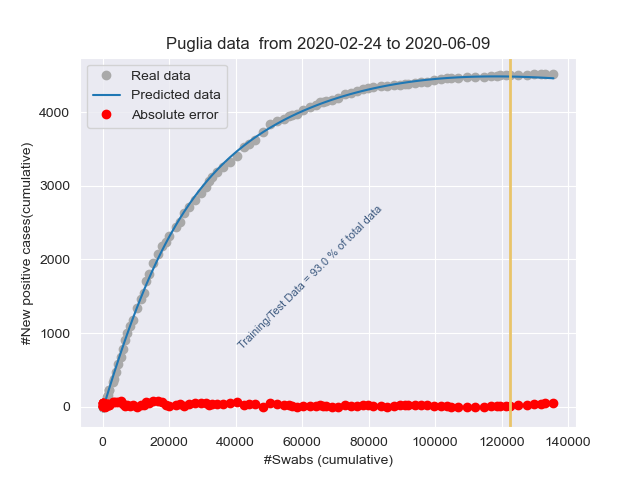
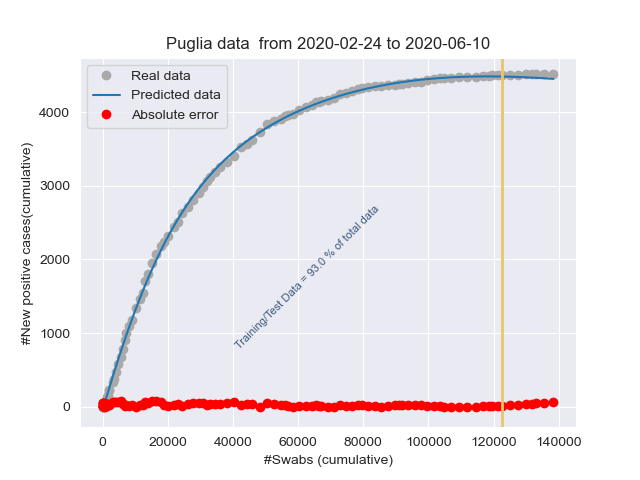
Add files via upload

diff --git a/stat_Friuli Venezia Giulia.html b/stat_Friuli Venezia Giulia.html
@@ -1,1 +1,1 @@
-<!DOCTYPE html><html lang="it"><head><title>Results</title><meta charset="utf-8"><meta name="viewport" content="width=device-width, initial-scale=1"><link rel="stylesheet" href="bootstrap.min.css"><script src="https://ajax.googleapis.com/ajax/libs/jquery/3.4.1/jquery.min.js"></script><script src="https://maxcdn.bootstrapcdn.com/bootstrap/3.4.1/js/bootstrap.min.js"></script></head><body><h3>Day: 2020-06-09</h3><p class="lead my-3">New positive cases: <b>0</b></p><p class="lead my-3">Variation of positive cases: <b>-100.0%</b></p><p class="lead my-3">Number of swabs: <b>859.0</b></p><p class="lead my-3">Variation of swabs: <b>0.58%</b></p><p class="lead my-3">Postive cases/Swabs: <b>0.0 %</b></p><p class="lead my-3">Number of people admitted to Intensive care: <b>2</b></p><p class="lead my-3">Number of recovered people: <b>16.0</b></p><p class="lead my-3">Number of dead people: <b>0.0</b></p><h3>Total</h3><p class="lead my-3">Population of  Friuli Venezia Giulia: <b>1215220</b> <a href="http://dati.istat.it/Index.aspx?QueryId=18548" target="_blank">ISTAT data</a></p><p class="lead my-3">Total number of positive cases from 2020-02-24 00:00:00 to 2020-06-09: <b> 3284</b></p><p class="lead my-3">Total number of swabs from 2020-02-24 00:00:00 to 2020-06-09: <b> 148889</b></p><p class="lead my-3">TotalSwabs/Population: <b> 12.25%</b></p></body></html>
+<!DOCTYPE html><html lang="it"><head><title>Results</title><meta charset="utf-8"><meta name="viewport" content="width=device-width, initial-scale=1"><link rel="stylesheet" href="bootstrap.min.css"><script src="https://ajax.googleapis.com/ajax/libs/jquery/3.4.1/jquery.min.js"></script><script src="https://maxcdn.bootstrapcdn.com/bootstrap/3.4.1/js/bootstrap.min.js"></script></head><body><h3>Day: 2020-06-10</h3><p class="lead my-3">New positive cases: <b>2</b></p><p class="lead my-3">Variation of positive cases: <b>inf%</b></p><p class="lead my-3">Number of swabs: <b>3977.0</b></p><p class="lead my-3">Variation of swabs: <b>2.67%</b></p><p class="lead my-3">Postive cases/Swabs: <b>0.05 %</b></p><p class="lead my-3">Number of people admitted to Intensive care: <b>1</b></p><p class="lead my-3">Number of recovered people: <b>16.0</b></p><p class="lead my-3">Number of dead people: <b>1.0</b></p><h3>Total</h3><p class="lead my-3">Population of  Friuli Venezia Giulia: <b>1215220</b> <a href="http://dati.istat.it/Index.aspx?QueryId=18548" target="_blank">ISTAT data</a></p><p class="lead my-3">Total number of positive cases from 2020-02-24 00:00:00 to 2020-06-10: <b> 3286</b></p><p class="lead my-3">Total number of swabs from 2020-02-24 00:00:00 to 2020-06-10: <b> 152866</b></p><p class="lead my-3">TotalSwabs/Population: <b> 12.58%</b></p></body></html>

diff --git a/stat_Emilia-Romagna.html b/stat_Emilia-Romagna.html
@@ -1,1 +1,1 @@
-<!DOCTYPE html><html lang="it"><head><title>Results</title><meta charset="utf-8"><meta name="viewport" content="width=device-width, initial-scale=1"><link rel="stylesheet" href="bootstrap.min.css"><script src="https://ajax.googleapis.com/ajax/libs/jquery/3.4.1/jquery.min.js"></script><script src="https://maxcdn.bootstrapcdn.com/bootstrap/3.4.1/js/bootstrap.min.js"></script></head><body><h3>Day: 2020-06-09</h3><p class="lead my-3">New positive cases: <b>18</b></p><p class="lead my-3">Variation of positive cases: <b>-10.0%</b></p><p class="lead my-3">Number of swabs: <b>6523.0</b></p><p class="lead my-3">Variation of swabs: <b>1.81%</b></p><p class="lead my-3">Postive cases/Swabs: <b>0.28 %</b></p><p class="lead my-3">Number of people admitted to Intensive care: <b>31</b></p><p class="lead my-3">Number of recovered people: <b>138.0</b></p><p class="lead my-3">Number of dead people: <b>6.0</b></p><h3>Total</h3><p class="lead my-3">Population of  Emilia-Romagna: <b>4459477</b> <a href="http://dati.istat.it/Index.aspx?QueryId=18548" target="_blank">ISTAT data</a></p><p class="lead my-3">Total number of positive cases from 2020-02-24 00:00:00 to 2020-06-09: <b> 27946</b></p><p class="lead my-3">Total number of swabs from 2020-02-24 00:00:00 to 2020-06-09: <b> 367485</b></p><p class="lead my-3">TotalSwabs/Population: <b> 8.24%</b></p></body></html>
+<!DOCTYPE html><html lang="it"><head><title>Results</title><meta charset="utf-8"><meta name="viewport" content="width=device-width, initial-scale=1"><link rel="stylesheet" href="bootstrap.min.css"><script src="https://ajax.googleapis.com/ajax/libs/jquery/3.4.1/jquery.min.js"></script><script src="https://maxcdn.bootstrapcdn.com/bootstrap/3.4.1/js/bootstrap.min.js"></script></head><body><h3>Day: 2020-06-10</h3><p class="lead my-3">New positive cases: <b>24</b></p><p class="lead my-3">Variation of positive cases: <b>33.33%</b></p><p class="lead my-3">Number of swabs: <b>7793.0</b></p><p class="lead my-3">Variation of swabs: <b>2.12%</b></p><p class="lead my-3">Postive cases/Swabs: <b>0.31 %</b></p><p class="lead my-3">Number of people admitted to Intensive care: <b>25</b></p><p class="lead my-3">Number of recovered people: <b>112.0</b></p><p class="lead my-3">Number of dead people: <b>7.0</b></p><h3>Total</h3><p class="lead my-3">Population of  Emilia-Romagna: <b>4459477</b> <a href="http://dati.istat.it/Index.aspx?QueryId=18548" target="_blank">ISTAT data</a></p><p class="lead my-3">Total number of positive cases from 2020-02-24 00:00:00 to 2020-06-10: <b> 27970</b></p><p class="lead my-3">Total number of swabs from 2020-02-24 00:00:00 to 2020-06-10: <b> 375278</b></p><p class="lead my-3">TotalSwabs/Population: <b> 8.42%</b></p></body></html>

diff --git a/stat_Italy.html b/stat_Italy.html
@@ -1,1 +1,1 @@
-<!DOCTYPE html><html lang="it"><head><title>Results</title><meta charset="utf-8"><meta name="viewport" content="width=device-width, initial-scale=1"><link rel="stylesheet" href="bootstrap.min.css"><script src="https://ajax.googleapis.com/ajax/libs/jquery/3.4.1/jquery.min.js"></script><script src="https://maxcdn.bootstrapcdn.com/bootstrap/3.4.1/js/bootstrap.min.js"></script></head><body><h3>Day: 2020-06-09</h3><p class="lead my-3">New positive cases: <b>283</b></p><p class="lead my-3">Variation of positive cases: <b>1.07%</b></p><p class="lead my-3">Number of swabs: <b>55003.0</b></p><p class="lead my-3">Variation of swabs: <b>1.29%</b></p><p class="lead my-3">Postive cases/Swabs: <b>0.51 %</b></p><p class="lead my-3">Number of people admitted to Intensive care: <b>263</b></p><p class="lead my-3">Number of recovered people: <b>2062.0</b></p><p class="lead my-3">Number of dead people: <b>79.0</b></p><h3>Total</h3><p class="lead my-3">Population of  Italy: <b>60359546</b> <a href="http://dati.istat.it/Index.aspx?QueryId=18548" target="_blank">ISTAT data</a></p><p class="lead my-3">Total number of positive cases from 2020-02-24 00:00:00 to 2020-06-09: <b> 235553</b></p><p class="lead my-3">Total number of swabs from 2020-02-24 00:00:00 to 2020-06-09: <b> 4318650</b></p><p class="lead my-3">TotalSwabs/Population: <b> 7.15%</b></p></body></html>
+<!DOCTYPE html><html lang="it"><head><title>Results</title><meta charset="utf-8"><meta name="viewport" content="width=device-width, initial-scale=1"><link rel="stylesheet" href="bootstrap.min.css"><script src="https://ajax.googleapis.com/ajax/libs/jquery/3.4.1/jquery.min.js"></script><script src="https://maxcdn.bootstrapcdn.com/bootstrap/3.4.1/js/bootstrap.min.js"></script></head><body><h3>Day: 2020-06-10</h3><p class="lead my-3">New positive cases: <b>202</b></p><p class="lead my-3">Variation of positive cases: <b>-28.62%</b></p><p class="lead my-3">Number of swabs: <b>62699.0</b></p><p class="lead my-3">Variation of swabs: <b>1.45%</b></p><p class="lead my-3">Postive cases/Swabs: <b>0.32 %</b></p><p class="lead my-3">Number of people admitted to Intensive care: <b>249</b></p><p class="lead my-3">Number of recovered people: <b>1293.0</b></p><p class="lead my-3">Number of dead people: <b>71.0</b></p><h3>Total</h3><p class="lead my-3">Population of  Italy: <b>60359546</b> <a href="http://dati.istat.it/Index.aspx?QueryId=18548" target="_blank">ISTAT data</a></p><p class="lead my-3">Total number of positive cases from 2020-02-24 00:00:00 to 2020-06-10: <b> 235755</b></p><p class="lead my-3">Total number of swabs from 2020-02-24 00:00:00 to 2020-06-10: <b> 4381349</b></p><p class="lead my-3">TotalSwabs/Population: <b> 7.26%</b></p></body></html>

diff --git a/stat_Lombardia.html b/stat_Lombardia.html
@@ -1,1 +1,1 @@
-<!DOCTYPE html><html lang="it"><head><title>Results</title><meta charset="utf-8"><meta name="viewport" content="width=device-width, initial-scale=1"><link rel="stylesheet" href="bootstrap.min.css"><script src="https://ajax.googleapis.com/ajax/libs/jquery/3.4.1/jquery.min.js"></script><script src="https://maxcdn.bootstrapcdn.com/bootstrap/3.4.1/js/bootstrap.min.js"></script></head><body><h3>Day: 2020-06-09</h3><p class="lead my-3">New positive cases: <b>192</b></p><p class="lead my-3">Variation of positive cases: <b>-1.03%</b></p><p class="lead my-3">Number of swabs: <b>9848.0</b></p><p class="lead my-3">Variation of swabs: <b>1.19%</b></p><p class="lead my-3">Postive cases/Swabs: <b>1.95 %</b></p><p class="lead my-3">Number of people admitted to Intensive care: <b>96</b></p><p class="lead my-3">Number of recovered people: <b>1199.0</b></p><p class="lead my-3">Number of dead people: <b>15.0</b></p><h3>Total</h3><p class="lead my-3">Population of  Lombardia: <b>10060574</b> <a href="http://dati.istat.it/Index.aspx?QueryId=18548" target="_blank">ISTAT data</a></p><p class="lead my-3">Total number of positive cases from 2020-02-24 00:00:00 to 2020-06-09: <b> 90575</b></p><p class="lead my-3">Total number of swabs from 2020-02-24 00:00:00 to 2020-06-09: <b> 836313</b></p><p class="lead my-3">TotalSwabs/Population: <b> 8.31%</b></p></body></html>
+<!DOCTYPE html><html lang="it"><head><title>Results</title><meta charset="utf-8"><meta name="viewport" content="width=device-width, initial-scale=1"><link rel="stylesheet" href="bootstrap.min.css"><script src="https://ajax.googleapis.com/ajax/libs/jquery/3.4.1/jquery.min.js"></script><script src="https://maxcdn.bootstrapcdn.com/bootstrap/3.4.1/js/bootstrap.min.js"></script></head><body><h3>Day: 2020-06-10</h3><p class="lead my-3">New positive cases: <b>99</b></p><p class="lead my-3">Variation of positive cases: <b>-48.44%</b></p><p class="lead my-3">Number of swabs: <b>9305.0</b></p><p class="lead my-3">Variation of swabs: <b>1.11%</b></p><p class="lead my-3">Postive cases/Swabs: <b>1.06 %</b></p><p class="lead my-3">Number of people admitted to Intensive care: <b>98</b></p><p class="lead my-3">Number of recovered people: <b>507.0</b></p><p class="lead my-3">Number of dead people: <b>32.0</b></p><h3>Total</h3><p class="lead my-3">Population of  Lombardia: <b>10060574</b> <a href="http://dati.istat.it/Index.aspx?QueryId=18548" target="_blank">ISTAT data</a></p><p class="lead my-3">Total number of positive cases from 2020-02-24 00:00:00 to 2020-06-10: <b> 90674</b></p><p class="lead my-3">Total number of swabs from 2020-02-24 00:00:00 to 2020-06-10: <b> 845618</b></p><p class="lead my-3">TotalSwabs/Population: <b> 8.41%</b></p></body></html>

diff --git a/stat_Piemonte.html b/stat_Piemonte.html
@@ -1,1 +1,1 @@
-<!DOCTYPE html><html lang="it"><head><title>Results</title><meta charset="utf-8"><meta name="viewport" content="width=device-width, initial-scale=1"><link rel="stylesheet" href="bootstrap.min.css"><script src="https://ajax.googleapis.com/ajax/libs/jquery/3.4.1/jquery.min.js"></script><script src="https://maxcdn.bootstrapcdn.com/bootstrap/3.4.1/js/bootstrap.min.js"></script></head><body><h3>Day: 2020-06-09</h3><p class="lead my-3">New positive cases: <b>21</b></p><p class="lead my-3">Variation of positive cases: <b>50.0%</b></p><p class="lead my-3">Number of swabs: <b>3846.0</b></p><p class="lead my-3">Variation of swabs: <b>1.12%</b></p><p class="lead my-3">Postive cases/Swabs: <b>0.55 %</b></p><p class="lead my-3">Number of people admitted to Intensive care: <b>39</b></p><p class="lead my-3">Number of recovered people: <b>209.0</b></p><p class="lead my-3">Number of dead people: <b>7.0</b></p><h3>Total</h3><p class="lead my-3">Population of  Piemonte: <b>4356406</b> <a href="http://dati.istat.it/Index.aspx?QueryId=18548" target="_blank">ISTAT data</a></p><p class="lead my-3">Total number of positive cases from 2020-02-24 00:00:00 to 2020-06-09: <b> 30890</b></p><p class="lead my-3">Total number of swabs from 2020-02-24 00:00:00 to 2020-06-09: <b> 348770</b></p><p class="lead my-3">TotalSwabs/Population: <b> 8.01%</b></p></body></html>
+<!DOCTYPE html><html lang="it"><head><title>Results</title><meta charset="utf-8"><meta name="viewport" content="width=device-width, initial-scale=1"><link rel="stylesheet" href="bootstrap.min.css"><script src="https://ajax.googleapis.com/ajax/libs/jquery/3.4.1/jquery.min.js"></script><script src="https://maxcdn.bootstrapcdn.com/bootstrap/3.4.1/js/bootstrap.min.js"></script></head><body><h3>Day: 2020-06-10</h3><p class="lead my-3">New positive cases: <b>26</b></p><p class="lead my-3">Variation of positive cases: <b>23.81%</b></p><p class="lead my-3">Number of swabs: <b>4967.0</b></p><p class="lead my-3">Variation of swabs: <b>1.42%</b></p><p class="lead my-3">Postive cases/Swabs: <b>0.52 %</b></p><p class="lead my-3">Number of people admitted to Intensive care: <b>35</b></p><p class="lead my-3">Number of recovered people: <b>310.0</b></p><p class="lead my-3">Number of dead people: <b>15.0</b></p><h3>Total</h3><p class="lead my-3">Population of  Piemonte: <b>4356406</b> <a href="http://dati.istat.it/Index.aspx?QueryId=18548" target="_blank">ISTAT data</a></p><p class="lead my-3">Total number of positive cases from 2020-02-24 00:00:00 to 2020-06-10: <b> 30916</b></p><p class="lead my-3">Total number of swabs from 2020-02-24 00:00:00 to 2020-06-10: <b> 353737</b></p><p class="lead my-3">TotalSwabs/Population: <b> 8.12%</b></p></body></html>

diff --git a/stat_Toscana.html b/stat_Toscana.html
@@ -1,1 +1,1 @@
-<!DOCTYPE html><html lang="it"><head><title>Results</title><meta charset="utf-8"><meta name="viewport" content="width=device-width, initial-scale=1"><link rel="stylesheet" href="bootstrap.min.css"><script src="https://ajax.googleapis.com/ajax/libs/jquery/3.4.1/jquery.min.js"></script><script src="https://maxcdn.bootstrapcdn.com/bootstrap/3.4.1/js/bootstrap.min.js"></script></head><body><h3>Day: 2020-06-09</h3><p class="lead my-3">New positive cases: <b>1</b></p><p class="lead my-3">Variation of positive cases: <b>-88.89%</b></p><p class="lead my-3">Number of swabs: <b>3386.0</b></p><p class="lead my-3">Variation of swabs: <b>1.24%</b></p><p class="lead my-3">Postive cases/Swabs: <b>0.03 %</b></p><p class="lead my-3">Number of people admitted to Intensive care: <b>17</b></p><p class="lead my-3">Number of recovered people: <b>91.0</b></p><p class="lead my-3">Number of dead people: <b>3.0</b></p><h3>Total</h3><p class="lead my-3">Population of  Toscana: <b>3729641</b> <a href="http://dati.istat.it/Index.aspx?QueryId=18548" target="_blank">ISTAT data</a></p><p class="lead my-3">Total number of positive cases from 2020-02-24 00:00:00 to 2020-06-09: <b> 10145</b></p><p class="lead my-3">Total number of swabs from 2020-02-24 00:00:00 to 2020-06-09: <b> 277092</b></p><p class="lead my-3">TotalSwabs/Population: <b> 7.43%</b></p></body></html>
+<!DOCTYPE html><html lang="it"><head><title>Results</title><meta charset="utf-8"><meta name="viewport" content="width=device-width, initial-scale=1"><link rel="stylesheet" href="bootstrap.min.css"><script src="https://ajax.googleapis.com/ajax/libs/jquery/3.4.1/jquery.min.js"></script><script src="https://maxcdn.bootstrapcdn.com/bootstrap/3.4.1/js/bootstrap.min.js"></script></head><body><h3>Day: 2020-06-10</h3><p class="lead my-3">New positive cases: <b>3</b></p><p class="lead my-3">Variation of positive cases: <b>200.0%</b></p><p class="lead my-3">Number of swabs: <b>3399.0</b></p><p class="lead my-3">Variation of swabs: <b>1.23%</b></p><p class="lead my-3">Postive cases/Swabs: <b>0.09 %</b></p><p class="lead my-3">Number of people admitted to Intensive care: <b>15</b></p><p class="lead my-3">Number of recovered people: <b>91.0</b></p><p class="lead my-3">Number of dead people: <b>1.0</b></p><h3>Total</h3><p class="lead my-3">Population of  Toscana: <b>3729641</b> <a href="http://dati.istat.it/Index.aspx?QueryId=18548" target="_blank">ISTAT data</a></p><p class="lead my-3">Total number of positive cases from 2020-02-24 00:00:00 to 2020-06-10: <b> 10148</b></p><p class="lead my-3">Total number of swabs from 2020-02-24 00:00:00 to 2020-06-10: <b> 280491</b></p><p class="lead my-3">TotalSwabs/Population: <b> 7.52%</b></p></body></html>

diff --git a/stat_P.A. Trento.html b/stat_P.A. Trento.html
@@ -1,1 +1,1 @@
-<!DOCTYPE html><html lang="it"><head><title>Results</title><meta charset="utf-8"><meta name="viewport" content="width=device-width, initial-scale=1"><link rel="stylesheet" href="bootstrap.min.css"><script src="https://ajax.googleapis.com/ajax/libs/jquery/3.4.1/jquery.min.js"></script><script src="https://maxcdn.bootstrapcdn.com/bootstrap/3.4.1/js/bootstrap.min.js"></script></head><body><h3>Day: 2020-06-09</h3><p class="lead my-3">New positive cases: <b>3</b></p><p class="lead my-3">Variation of positive cases: <b>200.0%</b></p><p class="lead my-3">Number of swabs: <b>702.0</b></p><p class="lead my-3">Variation of swabs: <b>0.73%</b></p><p class="lead my-3">Postive cases/Swabs: <b>0.43 %</b></p><p class="lead my-3">Number of people admitted to Intensive care: <b>1</b></p><p class="lead my-3">Number of recovered people: <b>3.0</b></p><p class="lead my-3">Number of dead people: <b>0.0</b></p><h3>Total</h3><p class="lead my-3">Population of  P.A. Trento: <b>541098</b> <a href="http://dati.istat.it/Index.aspx?QueryId=18548" target="_blank">ISTAT data</a></p><p class="lead my-3">Total number of positive cases from 2020-02-24 00:00:00 to 2020-06-09: <b> 4439</b></p><p class="lead my-3">Total number of swabs from 2020-02-24 00:00:00 to 2020-06-09: <b> 96527</b></p><p class="lead my-3">TotalSwabs/Population: <b> 17.84%</b></p></body></html>
+<!DOCTYPE html><html lang="it"><head><title>Results</title><meta charset="utf-8"><meta name="viewport" content="width=device-width, initial-scale=1"><link rel="stylesheet" href="bootstrap.min.css"><script src="https://ajax.googleapis.com/ajax/libs/jquery/3.4.1/jquery.min.js"></script><script src="https://maxcdn.bootstrapcdn.com/bootstrap/3.4.1/js/bootstrap.min.js"></script></head><body><h3>Day: 2020-06-10</h3><p class="lead my-3">New positive cases: <b>0</b></p><p class="lead my-3">Variation of positive cases: <b>-100.0%</b></p><p class="lead my-3">Number of swabs: <b>1212.0</b></p><p class="lead my-3">Variation of swabs: <b>1.26%</b></p><p class="lead my-3">Postive cases/Swabs: <b>0.0 %</b></p><p class="lead my-3">Number of people admitted to Intensive care: <b>1</b></p><p class="lead my-3">Number of recovered people: <b>1.0</b></p><p class="lead my-3">Number of dead people: <b>0.0</b></p><h3>Total</h3><p class="lead my-3">Population of  P.A. Trento: <b>541098</b> <a href="http://dati.istat.it/Index.aspx?QueryId=18548" target="_blank">ISTAT data</a></p><p class="lead my-3">Total number of positive cases from 2020-02-24 00:00:00 to 2020-06-10: <b> 4439</b></p><p class="lead my-3">Total number of swabs from 2020-02-24 00:00:00 to 2020-06-10: <b> 97739</b></p><p class="lead my-3">TotalSwabs/Population: <b> 18.06%</b></p></body></html>

diff --git a/stat_Veneto.html b/stat_Veneto.html
@@ -1,1 +1,1 @@
-<!DOCTYPE html><html lang="it"><head><title>Results</title><meta charset="utf-8"><meta name="viewport" content="width=device-width, initial-scale=1"><link rel="stylesheet" href="bootstrap.min.css"><script src="https://ajax.googleapis.com/ajax/libs/jquery/3.4.1/jquery.min.js"></script><script src="https://maxcdn.bootstrapcdn.com/bootstrap/3.4.1/js/bootstrap.min.js"></script></head><body><h3>Day: 2020-06-09</h3><p class="lead my-3">New positive cases: <b>4</b></p><p class="lead my-3">Variation of positive cases: <b>0.0%</b></p><p class="lead my-3">Number of swabs: <b>11850.0</b></p><p class="lead my-3">Variation of swabs: <b>1.58%</b></p><p class="lead my-3">Postive cases/Swabs: <b>0.03 %</b></p><p class="lead my-3">Number of people admitted to Intensive care: <b>0</b></p><p class="lead my-3">Number of recovered people: <b>74.0</b></p><p class="lead my-3">Number of dead people: <b>6.0</b></p><h3>Total</h3><p class="lead my-3">Population of  Veneto: <b>4905854</b> <a href="http://dati.istat.it/Index.aspx?QueryId=18548" target="_blank">ISTAT data</a></p><p class="lead my-3">Total number of positive cases from 2020-02-24 00:00:00 to 2020-06-09: <b> 19190</b></p><p class="lead my-3">Total number of swabs from 2020-02-24 00:00:00 to 2020-06-09: <b> 762098</b></p><p class="lead my-3">TotalSwabs/Population: <b> 15.53%</b></p></body></html>
+<!DOCTYPE html><html lang="it"><head><title>Results</title><meta charset="utf-8"><meta name="viewport" content="width=device-width, initial-scale=1"><link rel="stylesheet" href="bootstrap.min.css"><script src="https://ajax.googleapis.com/ajax/libs/jquery/3.4.1/jquery.min.js"></script><script src="https://maxcdn.bootstrapcdn.com/bootstrap/3.4.1/js/bootstrap.min.js"></script></head><body><h3>Day: 2020-06-10</h3><p class="lead my-3">New positive cases: <b>3</b></p><p class="lead my-3">Variation of positive cases: <b>-25.0%</b></p><p class="lead my-3">Number of swabs: <b>11218.0</b></p><p class="lead my-3">Variation of swabs: <b>1.47%</b></p><p class="lead my-3">Postive cases/Swabs: <b>0.03 %</b></p><p class="lead my-3">Number of people admitted to Intensive care: <b>0</b></p><p class="lead my-3">Number of recovered people: <b>42.0</b></p><p class="lead my-3">Number of dead people: <b>0.0</b></p><h3>Total</h3><p class="lead my-3">Population of  Veneto: <b>4905854</b> <a href="http://dati.istat.it/Index.aspx?QueryId=18548" target="_blank">ISTAT data</a></p><p class="lead my-3">Total number of positive cases from 2020-02-24 00:00:00 to 2020-06-10: <b> 19193</b></p><p class="lead my-3">Total number of swabs from 2020-02-24 00:00:00 to 2020-06-10: <b> 773316</b></p><p class="lead my-3">TotalSwabs/Population: <b> 15.76%</b></p></body></html>

diff --git a/stat_Lazio.html b/stat_Lazio.html
@@ -1,1 +1,1 @@
-<!DOCTYPE html><html lang="it"><head><title>Results</title><meta charset="utf-8"><meta name="viewport" content="width=device-width, initial-scale=1"><link rel="stylesheet" href="bootstrap.min.css"><script src="https://ajax.googleapis.com/ajax/libs/jquery/3.4.1/jquery.min.js"></script><script src="https://maxcdn.bootstrapcdn.com/bootstrap/3.4.1/js/bootstrap.min.js"></script></head><body><h3>Day: 2020-06-09</h3><p class="lead my-3">New positive cases: <b>23</b></p><p class="lead my-3">Variation of positive cases: <b>43.75%</b></p><p class="lead my-3">Number of swabs: <b>3687.0</b></p><p class="lead my-3">Variation of swabs: <b>1.34%</b></p><p class="lead my-3">Postive cases/Swabs: <b>0.62 %</b></p><p class="lead my-3">Number of people admitted to Intensive care: <b>47</b></p><p class="lead my-3">Number of recovered people: <b>65.0</b></p><p class="lead my-3">Number of dead people: <b>3.0</b></p><h3>Total</h3><p class="lead my-3">Population of  Lazio: <b>5879082</b> <a href="http://dati.istat.it/Index.aspx?QueryId=18548" target="_blank">ISTAT data</a></p><p class="lead my-3">Total number of positive cases from 2020-02-24 00:00:00 to 2020-06-09: <b> 7850</b></p><p class="lead my-3">Total number of swabs from 2020-02-24 00:00:00 to 2020-06-09: <b> 279572</b></p><p class="lead my-3">TotalSwabs/Population: <b> 4.76%</b></p></body></html>
+<!DOCTYPE html><html lang="it"><head><title>Results</title><meta charset="utf-8"><meta name="viewport" content="width=device-width, initial-scale=1"><link rel="stylesheet" href="bootstrap.min.css"><script src="https://ajax.googleapis.com/ajax/libs/jquery/3.4.1/jquery.min.js"></script><script src="https://maxcdn.bootstrapcdn.com/bootstrap/3.4.1/js/bootstrap.min.js"></script></head><body><h3>Day: 2020-06-10</h3><p class="lead my-3">New positive cases: <b>18</b></p><p class="lead my-3">Variation of positive cases: <b>-21.74%</b></p><p class="lead my-3">Number of swabs: <b>4058.0</b></p><p class="lead my-3">Variation of swabs: <b>1.45%</b></p><p class="lead my-3">Postive cases/Swabs: <b>0.44 %</b></p><p class="lead my-3">Number of people admitted to Intensive care: <b>47</b></p><p class="lead my-3">Number of recovered people: <b>18.0</b></p><p class="lead my-3">Number of dead people: <b>4.0</b></p><h3>Total</h3><p class="lead my-3">Population of  Lazio: <b>5879082</b> <a href="http://dati.istat.it/Index.aspx?QueryId=18548" target="_blank">ISTAT data</a></p><p class="lead my-3">Total number of positive cases from 2020-02-24 00:00:00 to 2020-06-10: <b> 7868</b></p><p class="lead my-3">Total number of swabs from 2020-02-24 00:00:00 to 2020-06-10: <b> 283630</b></p><p class="lead my-3">TotalSwabs/Population: <b> 4.82%</b></p></body></html>

diff --git a/stat_P.A. Bolzano.html b/stat_P.A. Bolzano.html
@@ -1,1 +1,1 @@
-<!DOCTYPE html><html lang="it"><head><title>Results</title><meta charset="utf-8"><meta name="viewport" content="width=device-width, initial-scale=1"><link rel="stylesheet" href="bootstrap.min.css"><script src="https://ajax.googleapis.com/ajax/libs/jquery/3.4.1/jquery.min.js"></script><script src="https://maxcdn.bootstrapcdn.com/bootstrap/3.4.1/js/bootstrap.min.js"></script></head><body><h3>Day: 2020-06-09</h3><p class="lead my-3">New positive cases: <b>0</b></p><p class="lead my-3">Variation of positive cases: <b>-100.0%</b></p><p class="lead my-3">Number of swabs: <b>395.0</b></p><p class="lead my-3">Variation of swabs: <b>0.55%</b></p><p class="lead my-3">Postive cases/Swabs: <b>0.0 %</b></p><p class="lead my-3">Number of people admitted to Intensive care: <b>2</b></p><p class="lead my-3">Number of recovered people: <b>2.0</b></p><p class="lead my-3">Number of dead people: <b>0.0</b></p><h3>Total</h3><p class="lead my-3">Population of  P.A. Bolzano: <b>531178</b> <a href="http://dati.istat.it/Index.aspx?QueryId=18548" target="_blank">ISTAT data</a></p><p class="lead my-3">Total number of positive cases from 2020-02-24 00:00:00 to 2020-06-09: <b> 2604</b></p><p class="lead my-3">Total number of swabs from 2020-02-24 00:00:00 to 2020-06-09: <b> 72652</b></p><p class="lead my-3">TotalSwabs/Population: <b> 13.68%</b></p></body></html>
+<!DOCTYPE html><html lang="it"><head><title>Results</title><meta charset="utf-8"><meta name="viewport" content="width=device-width, initial-scale=1"><link rel="stylesheet" href="bootstrap.min.css"><script src="https://ajax.googleapis.com/ajax/libs/jquery/3.4.1/jquery.min.js"></script><script src="https://maxcdn.bootstrapcdn.com/bootstrap/3.4.1/js/bootstrap.min.js"></script></head><body><h3>Day: 2020-06-10</h3><p class="lead my-3">New positive cases: <b>0</b></p><p class="lead my-3">Variation of positive cases: <b>0.0%</b></p><p class="lead my-3">Number of swabs: <b>752.0</b></p><p class="lead my-3">Variation of swabs: <b>1.04%</b></p><p class="lead my-3">Postive cases/Swabs: <b>0.0 %</b></p><p class="lead my-3">Number of people admitted to Intensive care: <b>2</b></p><p class="lead my-3">Number of recovered people: <b>1.0</b></p><p class="lead my-3">Number of dead people: <b>0.0</b></p><h3>Total</h3><p class="lead my-3">Population of  P.A. Bolzano: <b>531178</b> <a href="http://dati.istat.it/Index.aspx?QueryId=18548" target="_blank">ISTAT data</a></p><p class="lead my-3">Total number of positive cases from 2020-02-24 00:00:00 to 2020-06-10: <b> 2604</b></p><p class="lead my-3">Total number of swabs from 2020-02-24 00:00:00 to 2020-06-10: <b> 73404</b></p><p class="lead my-3">TotalSwabs/Population: <b> 13.82%</b></p></body></html>

diff --git a/stat_Campania.html b/stat_Campania.html
@@ -1,1 +1,1 @@
-<!DOCTYPE html><html lang="it"><head><title>Results</title><meta charset="utf-8"><meta name="viewport" content="width=device-width, initial-scale=1"><link rel="stylesheet" href="bootstrap.min.css"><script src="https://ajax.googleapis.com/ajax/libs/jquery/3.4.1/jquery.min.js"></script><script src="https://maxcdn.bootstrapcdn.com/bootstrap/3.4.1/js/bootstrap.min.js"></script></head><body><h3>Day: 2020-06-09</h3><p class="lead my-3">New positive cases: <b>5</b></p><p class="lead my-3">Variation of positive cases: <b>150.0%</b></p><p class="lead my-3">Number of swabs: <b>1629.0</b></p><p class="lead my-3">Variation of swabs: <b>0.74%</b></p><p class="lead my-3">Postive cases/Swabs: <b>0.31 %</b></p><p class="lead my-3">Number of people admitted to Intensive care: <b>3</b></p><p class="lead my-3">Number of recovered people: <b>47.0</b></p><p class="lead my-3">Number of dead people: <b>0.0</b></p><h3>Total</h3><p class="lead my-3">Population of  Campania: <b>5801692</b> <a href="http://dati.istat.it/Index.aspx?QueryId=18548" target="_blank">ISTAT data</a></p><p class="lead my-3">Total number of positive cases from 2020-02-24 00:00:00 to 2020-06-09: <b> 4833</b></p><p class="lead my-3">Total number of swabs from 2020-02-24 00:00:00 to 2020-06-09: <b> 220662</b></p><p class="lead my-3">TotalSwabs/Population: <b> 3.8%</b></p></body></html>
+<!DOCTYPE html><html lang="it"><head><title>Results</title><meta charset="utf-8"><meta name="viewport" content="width=device-width, initial-scale=1"><link rel="stylesheet" href="bootstrap.min.css"><script src="https://ajax.googleapis.com/ajax/libs/jquery/3.4.1/jquery.min.js"></script><script src="https://maxcdn.bootstrapcdn.com/bootstrap/3.4.1/js/bootstrap.min.js"></script></head><body><h3>Day: 2020-06-10</h3><p class="lead my-3">New positive cases: <b>1</b></p><p class="lead my-3">Variation of positive cases: <b>-80.0%</b></p><p class="lead my-3">Number of swabs: <b>2640.0</b></p><p class="lead my-3">Variation of swabs: <b>1.2%</b></p><p class="lead my-3">Postive cases/Swabs: <b>0.04 %</b></p><p class="lead my-3">Number of people admitted to Intensive care: <b>2</b></p><p class="lead my-3">Number of recovered people: <b>32.0</b></p><p class="lead my-3">Number of dead people: <b>2.0</b></p><h3>Total</h3><p class="lead my-3">Population of  Campania: <b>5801692</b> <a href="http://dati.istat.it/Index.aspx?QueryId=18548" target="_blank">ISTAT data</a></p><p class="lead my-3">Total number of positive cases from 2020-02-24 00:00:00 to 2020-06-10: <b> 4834</b></p><p class="lead my-3">Total number of swabs from 2020-02-24 00:00:00 to 2020-06-10: <b> 223302</b></p><p class="lead my-3">TotalSwabs/Population: <b> 3.85%</b></p></body></html>

diff --git a/stat_Liguria.html b/stat_Liguria.html
@@ -1,1 +1,1 @@
-<!DOCTYPE html><html lang="it"><head><title>Results</title><meta charset="utf-8"><meta name="viewport" content="width=device-width, initial-scale=1"><link rel="stylesheet" href="bootstrap.min.css"><script src="https://ajax.googleapis.com/ajax/libs/jquery/3.4.1/jquery.min.js"></script><script src="https://maxcdn.bootstrapcdn.com/bootstrap/3.4.1/js/bootstrap.min.js"></script></head><body><h3>Day: 2020-06-09</h3><p class="lead my-3">New positive cases: <b>8</b></p><p class="lead my-3">Variation of positive cases: <b>-42.86%</b></p><p class="lead my-3">Number of swabs: <b>1481.0</b></p><p class="lead my-3">Variation of swabs: <b>1.26%</b></p><p class="lead my-3">Postive cases/Swabs: <b>0.54 %</b></p><p class="lead my-3">Number of people admitted to Intensive care: <b>5</b></p><p class="lead my-3">Number of recovered people: <b>3.0</b></p><p class="lead my-3">Number of dead people: <b>4.0</b></p><h3>Total</h3><p class="lead my-3">Population of  Liguria: <b>1550640</b> <a href="http://dati.istat.it/Index.aspx?QueryId=18548" target="_blank">ISTAT data</a></p><p class="lead my-3">Total number of positive cases from 2020-02-24 00:00:00 to 2020-06-09: <b> 9834</b></p><p class="lead my-3">Total number of swabs from 2020-02-24 00:00:00 to 2020-06-09: <b> 118891</b></p><p class="lead my-3">TotalSwabs/Population: <b> 7.67%</b></p></body></html>
+<!DOCTYPE html><html lang="it"><head><title>Results</title><meta charset="utf-8"><meta name="viewport" content="width=device-width, initial-scale=1"><link rel="stylesheet" href="bootstrap.min.css"><script src="https://ajax.googleapis.com/ajax/libs/jquery/3.4.1/jquery.min.js"></script><script src="https://maxcdn.bootstrapcdn.com/bootstrap/3.4.1/js/bootstrap.min.js"></script></head><body><h3>Day: 2020-06-10</h3><p class="lead my-3">New positive cases: <b>20</b></p><p class="lead my-3">Variation of positive cases: <b>150.0%</b></p><p class="lead my-3">Number of swabs: <b>2132.0</b></p><p class="lead my-3">Variation of swabs: <b>1.79%</b></p><p class="lead my-3">Postive cases/Swabs: <b>0.94 %</b></p><p class="lead my-3">Number of people admitted to Intensive care: <b>3</b></p><p class="lead my-3">Number of recovered people: <b>20.0</b></p><p class="lead my-3">Number of dead people: <b>4.0</b></p><h3>Total</h3><p class="lead my-3">Population of  Liguria: <b>1550640</b> <a href="http://dati.istat.it/Index.aspx?QueryId=18548" target="_blank">ISTAT data</a></p><p class="lead my-3">Total number of positive cases from 2020-02-24 00:00:00 to 2020-06-10: <b> 9854</b></p><p class="lead my-3">Total number of swabs from 2020-02-24 00:00:00 to 2020-06-10: <b> 121023</b></p><p class="lead my-3">TotalSwabs/Population: <b> 7.8%</b></p></body></html>
